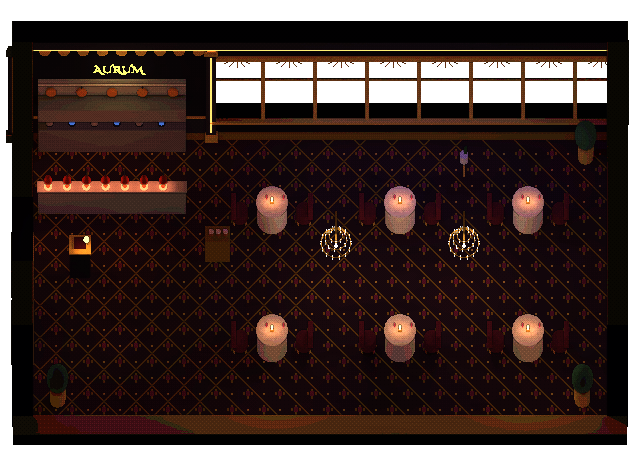
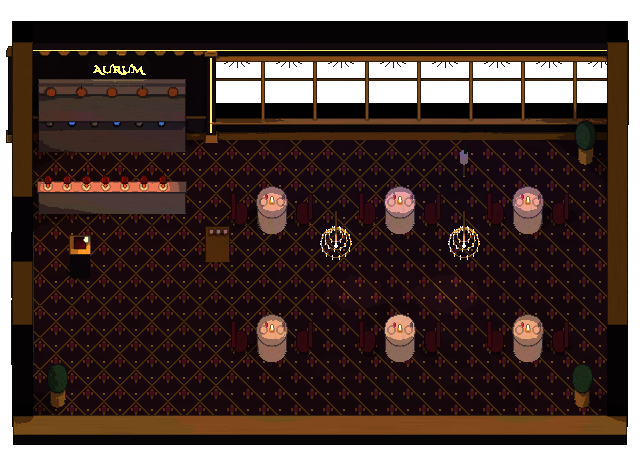
Aurum re-rendered in the toy finish: its sign, table candles and chandeliers stay lit, and the carpet lies in one low warm band (the lamps lower, the room's ambient lifted) instead of breaking into dark shapes; the render queue's README says the Neon Royale's four rooms are in
Claude-Session: https://claude.ai/code/session_018nrKRED6mogiaY9BWcycmi

diff --git a/tools/bridge-art/scenes/arcadia_casino_dining.py b/tools/bridge-art/scenes/arcadia_casino_dining.py
@@ -39,8 +39,8 @@ C.side_wall(k, 0.4, 1.0, RB - 0.5, 12.0, H, gaps=[(8.0, 10.0)])
 C.side_wall(k, 19.0, 19.6, RB - 0.5, 12.0, H)
 k.box(0.4, 12.0, 0, 19.6, 12.6, 0.42, (C.LACQUER, 0.05), 'front_wall')
 k.box(0.4, 12.0, 0.42, 19.6, 12.6, 0.47, (C.GOLD, 0.05), 'wall_cap')
-k.box(0.4, 11.99, 0.34, 19.6, 12.02, 0.37, shade('#ffb060', 0.45), 'front_neon', emit=('#ffb060', 0.7))
-S.letters(k, 'AURUM', 'CinzelDecorative-Bold', 3.7, RB + 0.1, 3.05, size=0.5, col=C.GOLD_L, energy=10)
+k.box(0.4, 11.99, 0.34, 19.6, 12.02, 0.37, shade('#ffb060', 0.45), 'front_neon_lustre', emit=('#ffb060', 0.7))
+S.letters(k, 'AURUM', 'CinzelDecorative-Bold', 3.7, RB + 0.1, 3.05, size=0.5, col=C.GOLD_L, energy=10, part='letters_lustre')
 
 # ---- the open kitchen ---------------------------------------------------------------------------------------------------------
 C.kitchen_pass(k, 1.2, 5.8, RB, depth=2.4)
@@ -84,7 +84,10 @@ for (x, r) in ((18.2, 11.2), (1.8, 11.2), (18.3, 3.6)):
 for (x, r) in ((10.5, 7.5), (14.5, 7.5), (3.5, 9.5), (8.5, 11.0), (16.5, 11.0)):
     k.point_light(x, r, 2.4, '#ffc890', 14, radius=0.6)
 k.area_light(13.0, RB + 1.0, 3.6, '#8070c0', 60, 8.0, rot=(math.radians(-50), 0, 0))      # the city's glow through the window
-k.render(OUT, light_states={'full': {'flicker': 1.0}, 'dim': {'flicker': 0.78}}, light_samples=128, world_light=('#2a1430', 0.42))
+k.render(OUT, light_states={'full': {'flicker': 1.0, '_art': 0.5}, 'dim': {'flicker': 0.78, '_art': 0.5}}, light_samples=128,
+         world_light=('#584436', 1.05))
+# (every lamp at half and the room's ambient lifted to a warm amber, so the carpet lies in one low band of the toy finish
+# instead of breaking into dark shapes, the candles and chandeliers still the light in the room)
 
 # ---- the world ----------------------------------------------------------------------------------------------------------------------
 w = json.load(open(WORLD)) if os.path.exists(WORLD) else {}

diff --git a/_claude_docs/render-queue/README.md b/_claude_docs/render-queue/README.md
@@ -35,14 +35,15 @@ wall — came out grey because the finish's outline covered all of them: parts w
 (`scene_post.py` `LUSTRE_WORDS`; the estate and casino kits' chandeliers, sconces, torchères and candelabra,
 `A.candle(lustre=True)`, the penthouse's bottles) keep their colour and take the line round them instead. Name a new
 fitting's thin lit parts that way.
-**Still in the older finish, on purpose: the Neon Royale's four rooms** (`arcadia-casino`, `-casino-cards`,
-`-casino-dining`, `-casino-vip`). Their chandeliers are fine with the fix, but their neon sign letters (RUNOUTS, AURUM,
-the VIP crown, the floor's signs) and the slot cabinets' thin neon trims dim for the same reason, and the VIP room's and
-the floor's carpets break into dark shapes. To land them: name those tubes and letters `lustre` in the casino's own
-builders, give the two carpeted rooms the ambient the palace and Ashcombe House got (a warm fill so the finish's band
-edges don't fall across the open floor), re-render the four, compare with the old pictures. (A branch
-`claude/rooms-toy-finish` holds an earlier, unmerged attempt at the fittings with a different mechanism — `gleam`, a
-per-room switch: don't merge it.) For Beck's eye, shipped as they are: the opera foyer's floor is patchy in the toy
+**The Neon Royale's four rooms are in too** (`arcadia-casino`, `-casino-cards`, `-casino-dining`, `-casino-vip`, November
+2026). The casino kit's neon tubes, sign letters, slot cabinets' trims, reels and toppers, the bar's bottles and the
+table candles are named `lustre` (and the rooms' own signs and neon strips: `assets_signs` `neon` / `letters` and
+`assets_cyber.neon_shape` take an optional `part`, unchanged by default), so the neon stays lit. Each room's carpet
+lies in one band: its lamps lowered with the light states' `_art` (the floor 0.6, the card room and Aurum 0.5, the
+Crown Room 0.375) and its ambient lifted to a warm amber (`world_light=('#584436', …)`), so the finish's band edges
+no longer fall across open floor. (A branch `claude/rooms-toy-finish` holds an earlier, unmerged attempt at the
+fittings with a different mechanism — `gleam`: don't merge it.) For Beck's eye, shipped as they are: the casino
+stage's boards take a soft pool from the follow spot in the dim state; the opera foyer's floor is patchy in the toy
 finish, the Hollow's floor takes strong bands round its one lantern, and the Hall of Finds' moonlight pools.
 
 ## Found, not yet written (each needs a script fix first)
